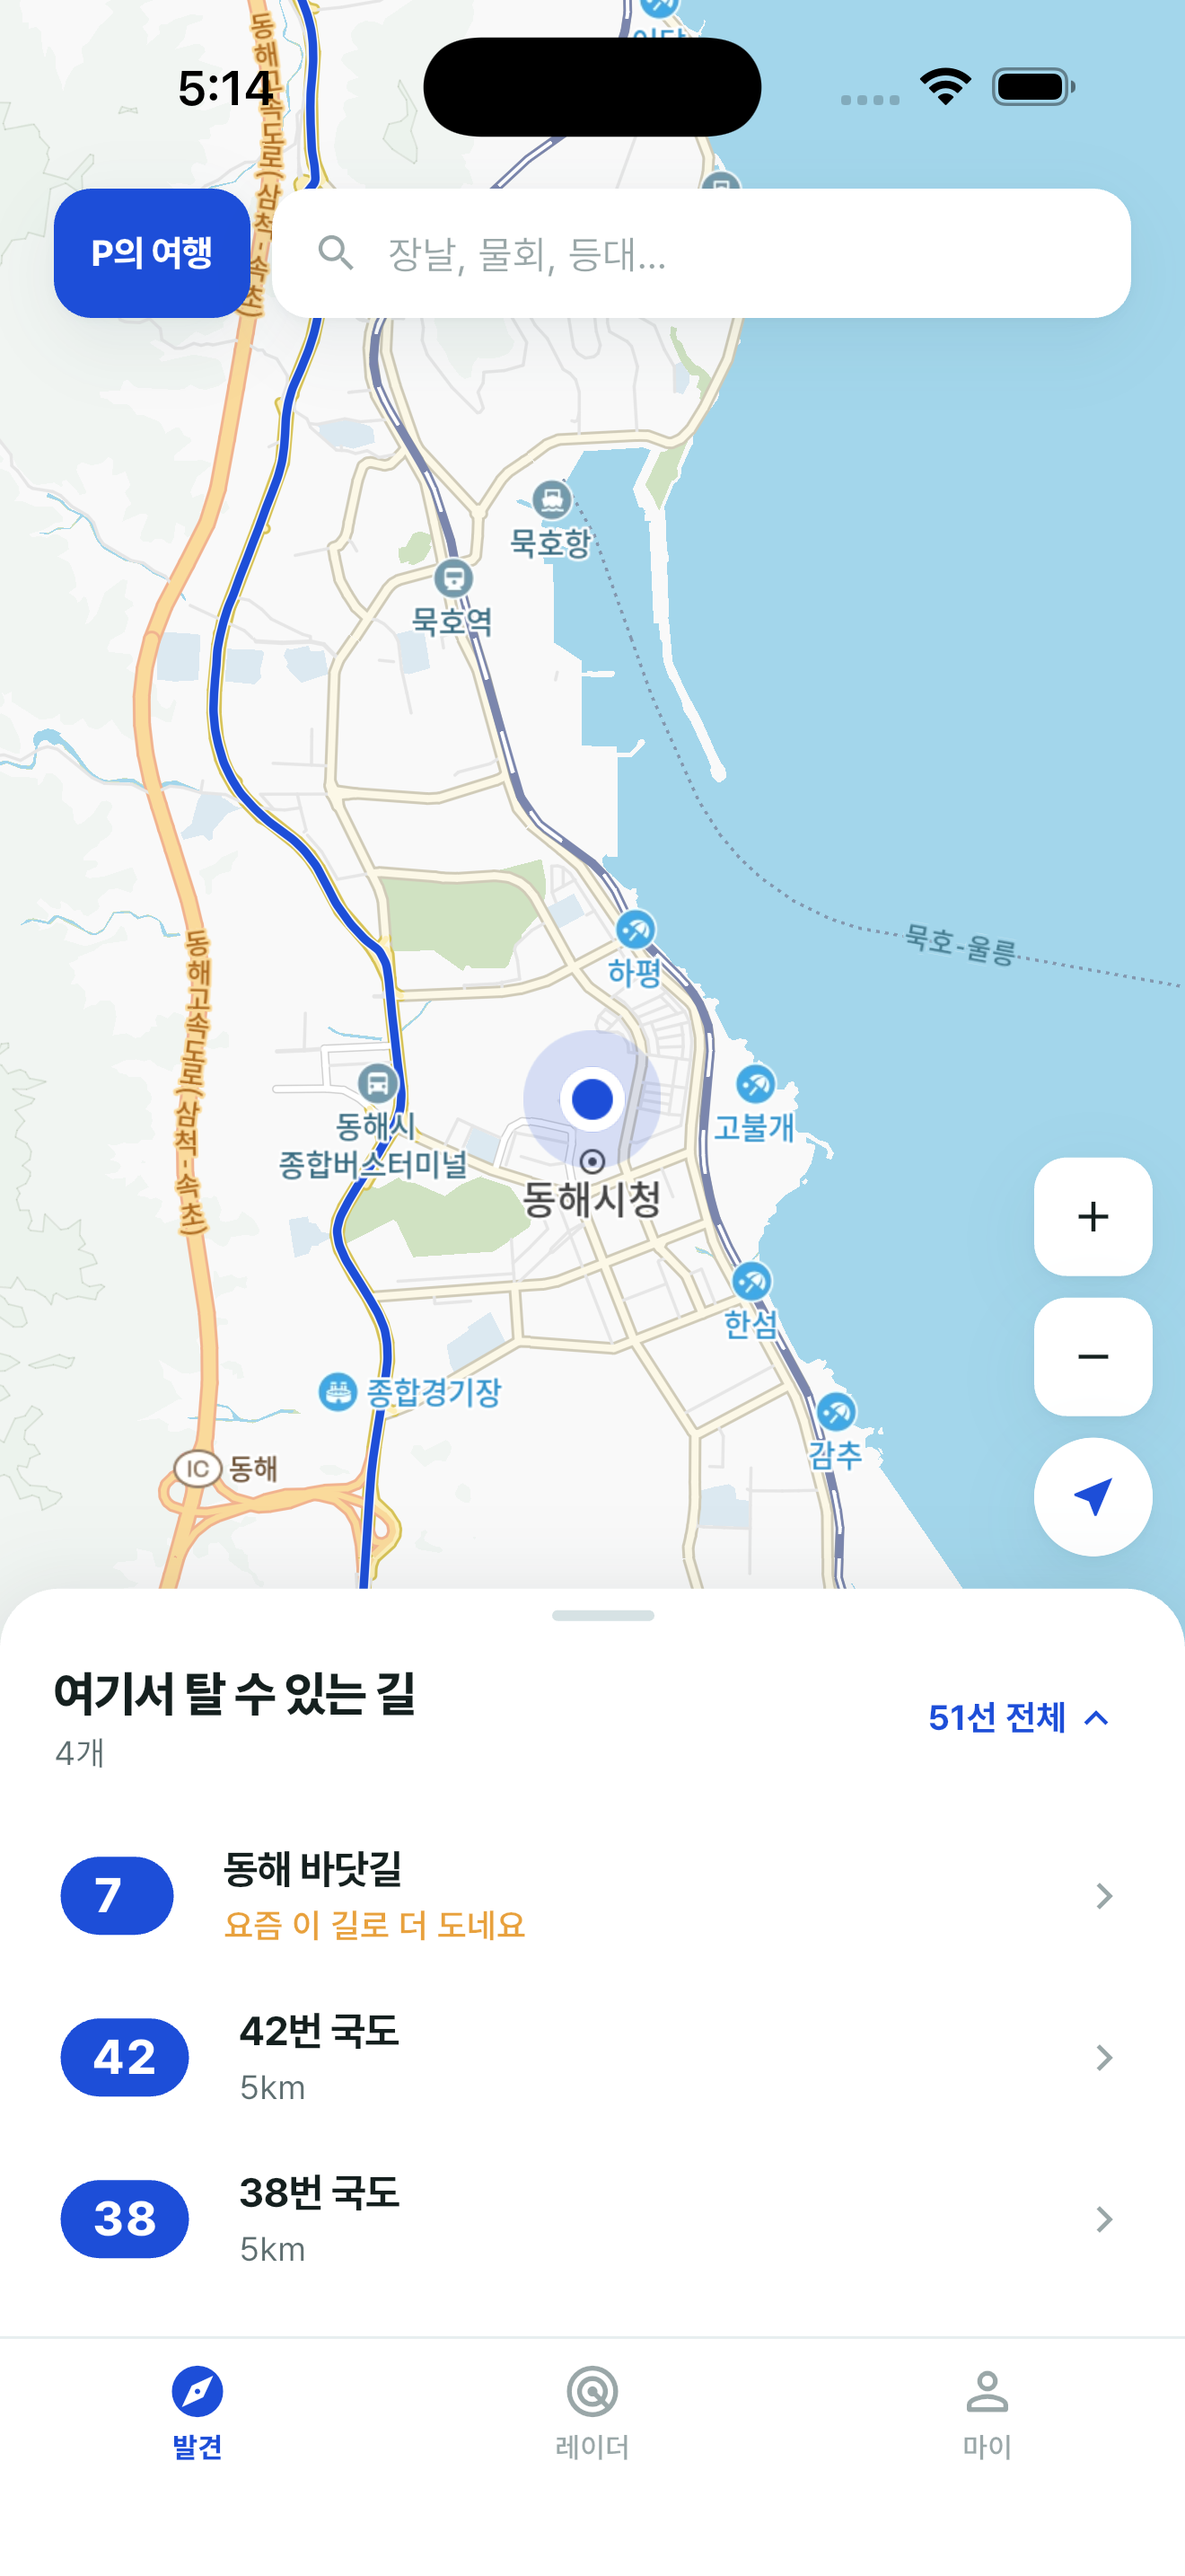
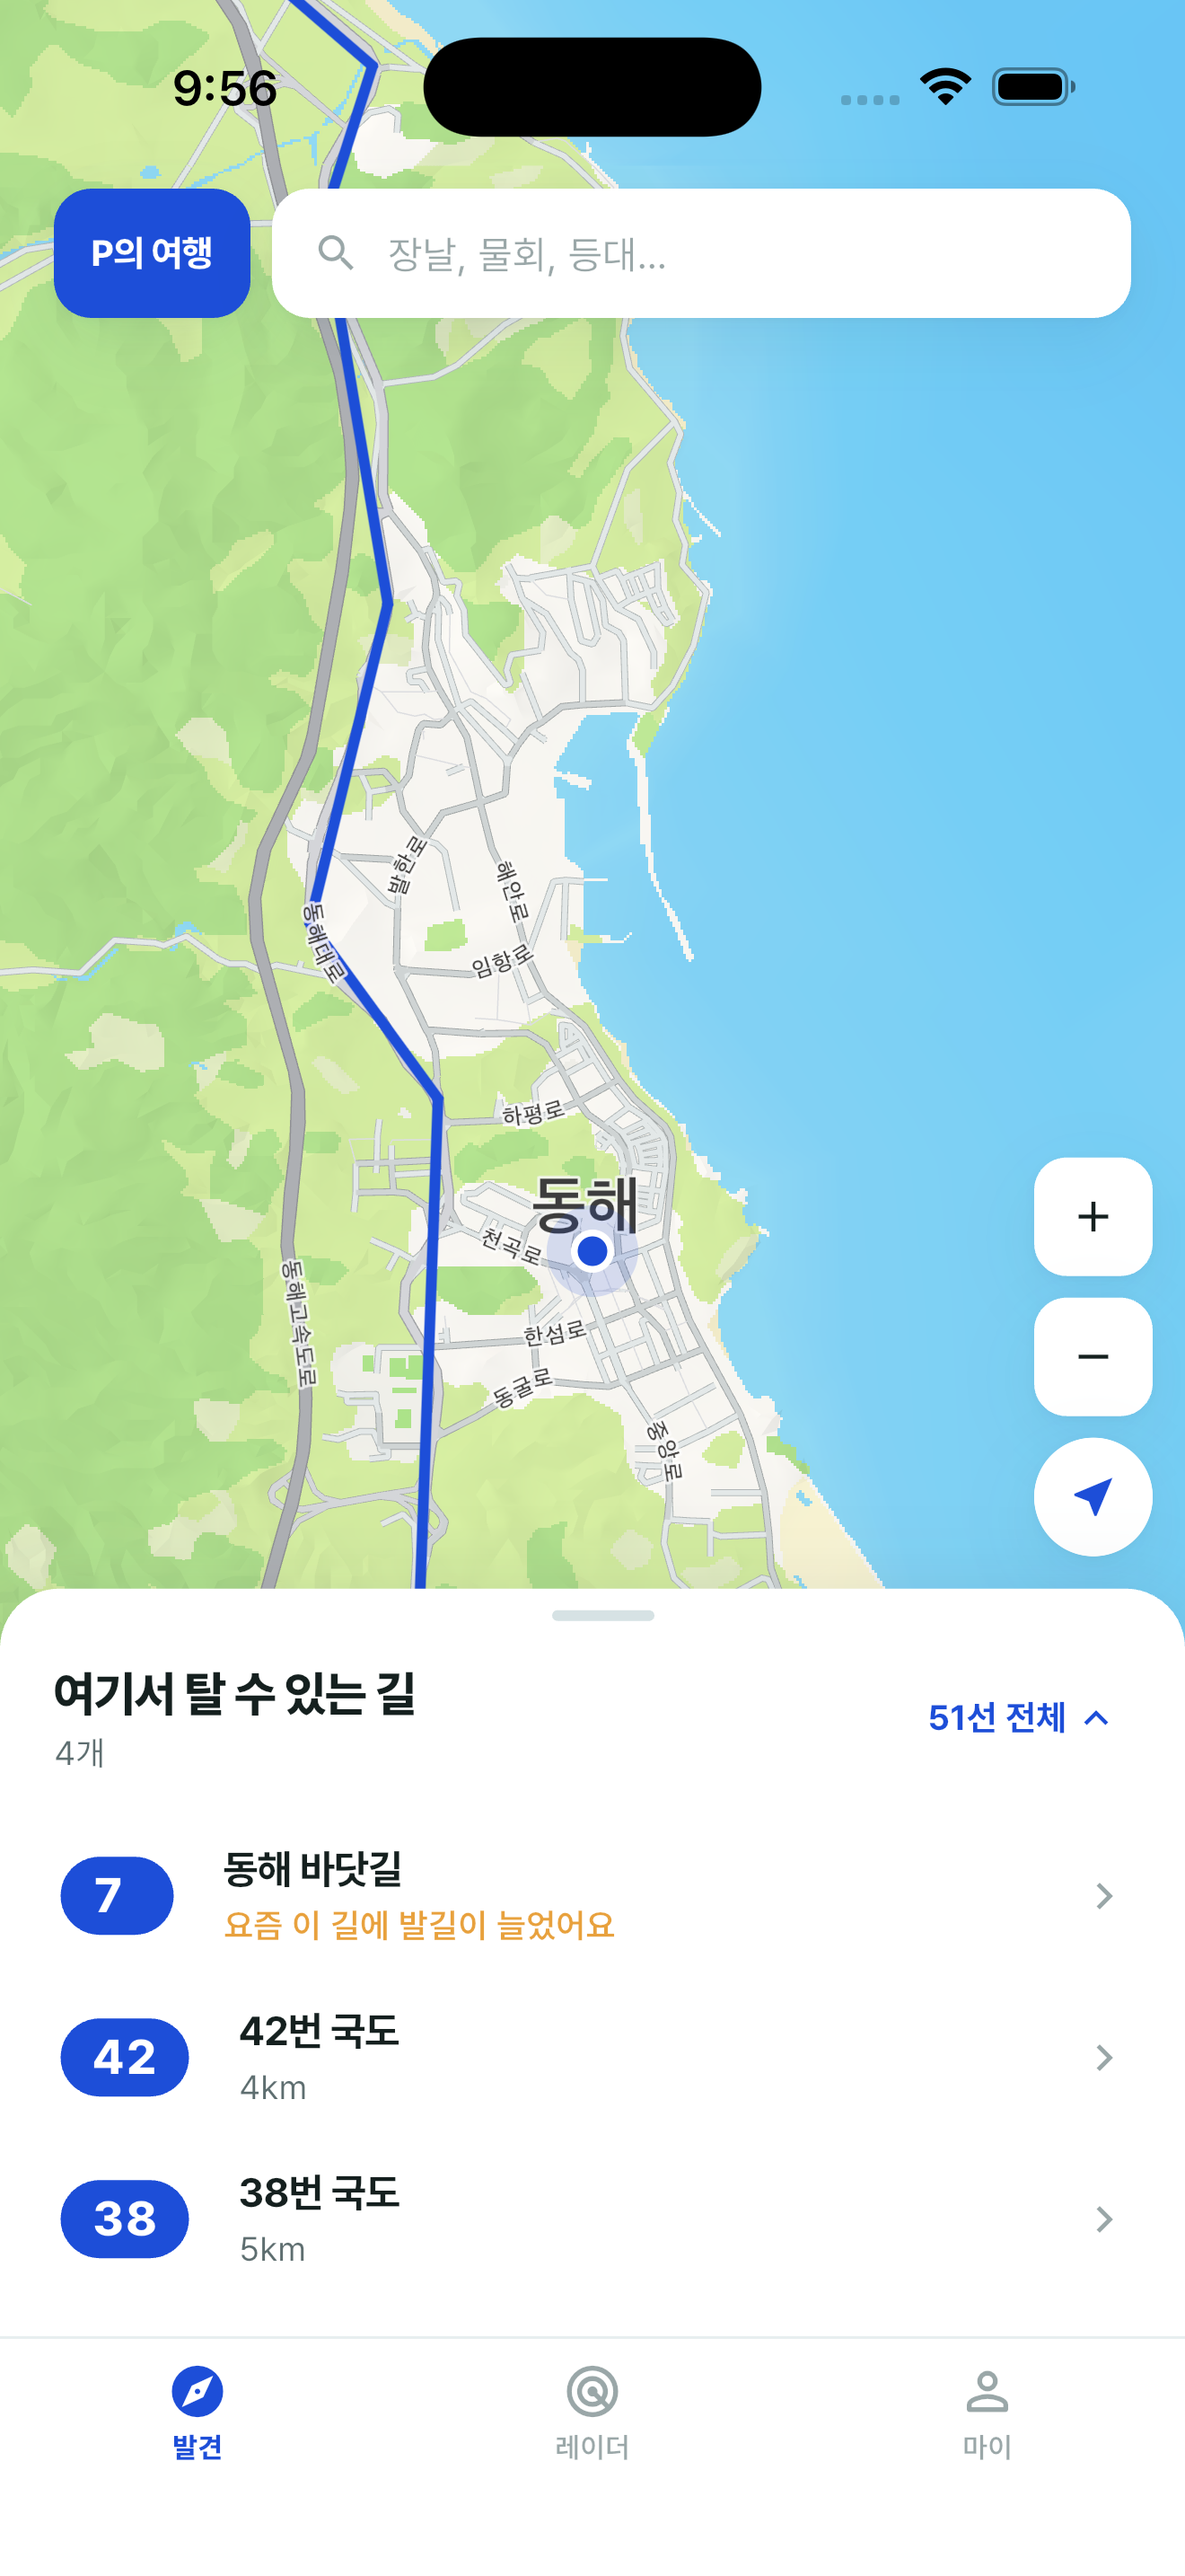
docs(store): 홈 스크린샷을 Apple 지도 기준으로 다시 찍는다 + 한 장 교체 스크립트
1_home.png 이 카카오맵 시절 것이었다. iPhone 17 Pro Max 시뮬레이터(1320×2868), 동해 좌표,
7번 국도가 그려진 현재 홈. tools/asc/shot_replace.py 는 같은 파일명을 지우고 올린 뒤
파일명 순으로 세트를 다시 세운다 (shots.py 는 폴더 통째라 한 장 교체엔 못 쓴다).

diff --git a/tools/asc/shot_replace.py b/tools/asc/shot_replace.py
@@ -1,0 +1,50 @@
+#!/usr/bin/env python3
+"""스크린샷 한 장을 갈아끼운다 — 같은 파일명은 지우고, 올리고, 파일명 순으로 다시 세운다.
+
+    python3 tools/asc/shot_replace.py 1.0.2 docs/screenshots/1_home.png
+
+shots.py 는 폴더를 통째로 올리는 도구라 한 장만 바꾸면 중복이 생긴다. 이건 한 장용이다.
+"""
+import hashlib, pathlib, sys, urllib.request, urllib.error
+sys.path.insert(0, str(pathlib.Path(__file__).resolve().parent))
+import ascapi as a
+
+DISPLAY = "APP_IPHONE_67"
+
+def put_raw(op, chunk):
+    h = {x["name"]: x["value"] for x in op.get("requestHeaders", [])}
+    req = urllib.request.Request(op["url"], data=chunk, headers=h, method=op["method"])
+    try:
+        urllib.request.urlopen(req, timeout=300); return None
+    except urllib.error.HTTPError as e:
+        return f"{e.code} {e.read().decode(errors='ignore')[:200]}"
+
+def main(ver, path):
+    f = pathlib.Path(path); data = f.read_bytes()
+    v = a.get(f"apps/{a.APP}/appStoreVersions?filter[versionString]={ver}&filter[platform]=IOS")["data"][0]
+    loc = next(l for l in a.get(f"appStoreVersions/{v['id']}/appStoreVersionLocalizations")["data"] if l["attributes"]["locale"] == "ko")
+    sets = a.get(f"appStoreVersionLocalizations/{loc['id']}/appScreenshotSets")["data"]
+    st = next(s for s in sets if s["attributes"]["screenshotDisplayType"] == DISPLAY)
+    shots = a.get(f"appScreenshotSets/{st['id']}/appScreenshots")["data"]
+    for s in shots:
+        if s["attributes"].get("fileName") == f.name:
+            a.show(f"지움 {f.name}", a.call("DELETE", f"appScreenshots/{s['id']}"))
+    r = a.post("appScreenshots", {"data": {"type": "appScreenshots",
+        "attributes": {"fileSize": len(data), "fileName": f.name},
+        "relationships": {"appScreenshotSet": {"data": {"type": "appScreenshotSets", "id": st["id"]}}}}})
+    if not a.show(f"예약 {f.name}", r): sys.exit(1)
+    shot = r["data"]
+    for op in shot["attributes"]["uploadOperations"]:
+        err = put_raw(op, data[op["offset"]:op["offset"] + op["length"]])
+        if err: print("  ✗ 업로드", err); sys.exit(1)
+    a.show(f"확정 {f.name}", a.patch(f"appScreenshots/{shot['id']}", {"data": {"type": "appScreenshots", "id": shot["id"],
+        "attributes": {"uploaded": True, "sourceFileChecksum": hashlib.md5(data).hexdigest()}}}))
+    # 순서 — 파일명 순 (1_home, 2_depart, …)
+    shots = a.get(f"appScreenshotSets/{st['id']}/appScreenshots")["data"]
+    order = sorted(shots, key=lambda s: s["attributes"].get("fileName") or "")
+    a.show("순서 정리 " + ", ".join(s["attributes"].get("fileName", "?") for s in order),
+           a.patch(f"appScreenshotSets/{st['id']}/relationships/appScreenshots",
+                   {"data": [{"type": "appScreenshots", "id": s["id"]} for s in order]}))
+
+if __name__ == "__main__":
+    main(sys.argv[1], sys.argv[2])
